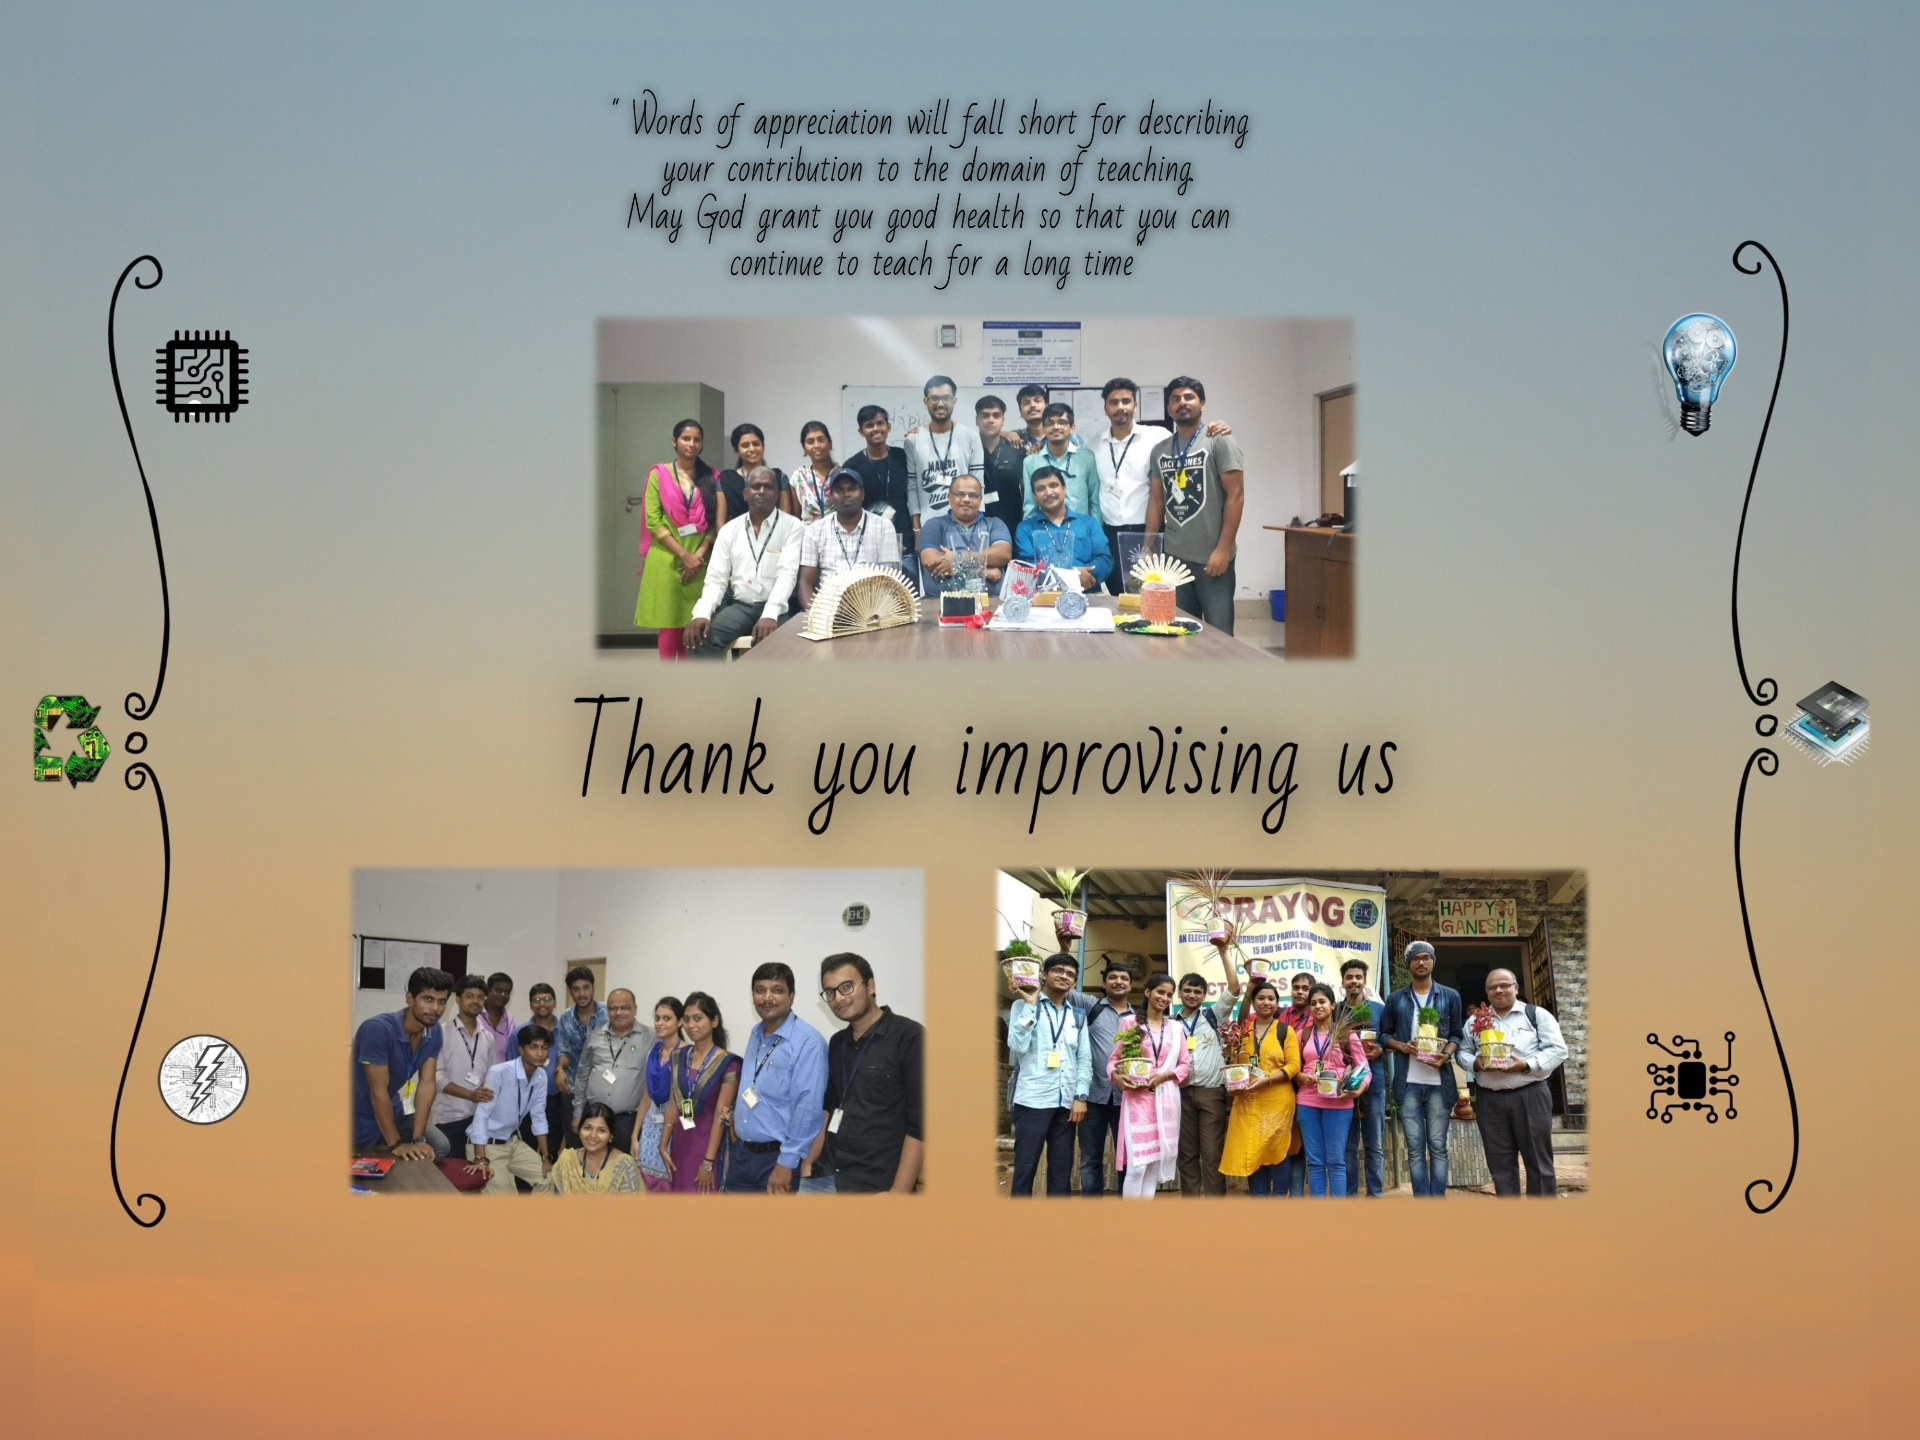
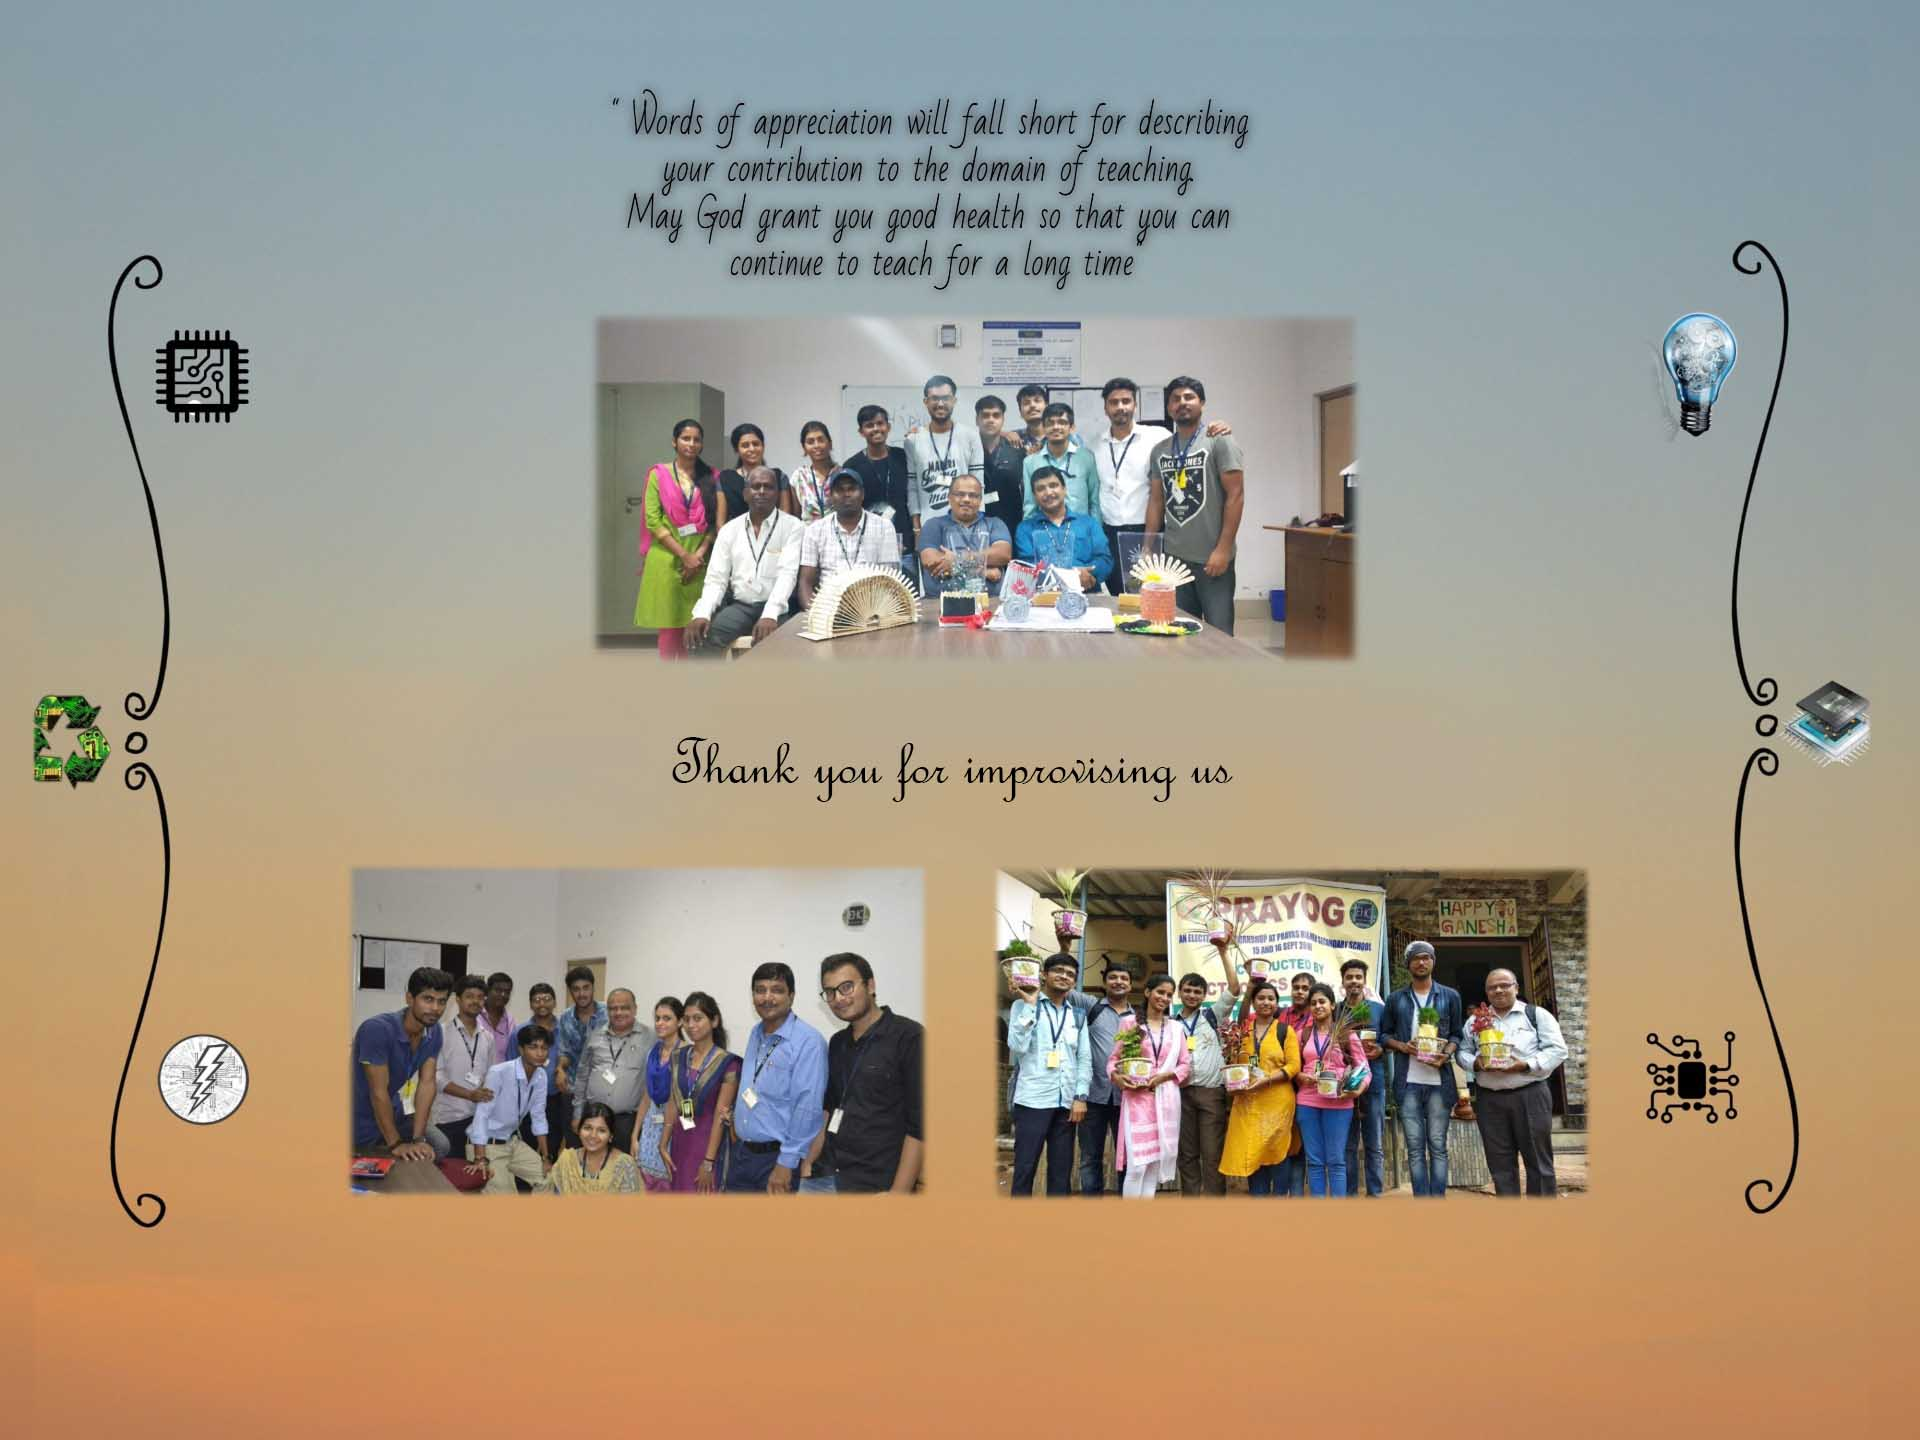
changes in footer

Changed region(s): [[0.2812, 0.4375, 0.7188, 0.625], [0.5, 0.5938, 0.5625, 0.625]]

diff --git a/index.html b/index.html
@@ -76,7 +76,7 @@
 		<div class="contentBx wow slideInLeft">
 			<h2 class="titleText">We are thankful of electronics and our teachers.</h2>
 			<p class="text">Teaching is a very noble profession that shapes the character, caliber, and future of an individual. If the people remember me as a good teacher, that will be the biggest honour for me.  <br> - APJ Abdul Kalam</p>
-			<a href="https://www.savethechildren.org/us/what-we-do/where-we-work/asia/india" class="btn"> By EHC <i class="fa fa-heart"></i></a>
+			<a href="#" class="btn"> By EHC <i class="fa fa-heart"></i></a>
 
 			
 		</div>
@@ -90,7 +90,7 @@
 
 <footer>
 	<div class="b-footer">
- 			<p>Shankar @ NIST-EHC</p>
+ 			<p><i class="fa fa-heart"></i> NIST-ELECTRONICS HOBBY CLUB</p>
  			
  		</div>
 </footer>
